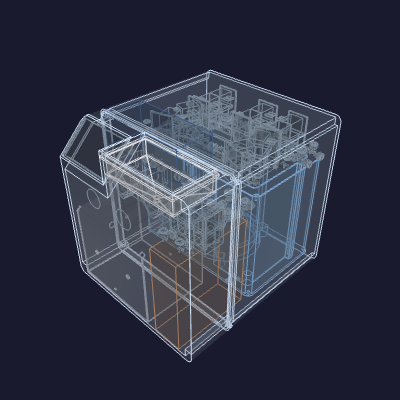
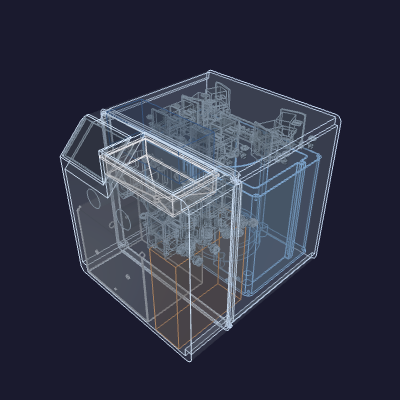
enclosure-assembly: pack all four valve trays zero-overlap, no growth
Read each tray's dumbbell profile (tall valve clusters, low narrow bridge) and
use the whole box instead of two flat rows on the cold-core top:
- source-select + bag-circuit tile the cold-core top in two depth rows
- bib-gate + nozzle-gate drop onto the condenser-top band, front-to-back, under
  the SeaFlo and the hollow hopper funnel (its thin cone leaves the volume free)
- pumps on the compressor top, SeaFlo flat on their tops

Content-to-content overlap is now zero (was bag-circuit/nozzle-gate 12837 +
bib-gate/cold-core 750), and the outer envelope is unchanged. The SeaFlo still
straddles the print seam (pre-existing: the only seaflo-sized open volume is the
pump tops, which the seam crosses); the funnel-collar-in-opening overlap is by
design.

Also drops _flip*.py search scratch swept into the tree by an earlier commit.

Changed region(s): [[0.3, 0.21, 0.81, 0.66], [0.24, 0.27, 0.3, 0.3]]

diff --git a/hardware/printed-parts/enclosure/enclosure-assembly/_contents.py b/hardware/printed-parts/enclosure/enclosure-assembly/_contents.py
@@ -133,10 +133,9 @@ def build():
     placed["condenser+fan"] = _at(cond, cold_w - CONDENSER_AIRFLOW - SIDE_RIB_INSET, 0.0, SEAM_CLEAR_LIFT)
     cond_top_z = SEAM_CLEAR_LIFT + CONDENSER_FACE_A
 
-    # --- Zone C: the two flavor pumps sit low on the compressor top, the SeaFlo
-    # laid flat across them above. The whole right column above the condenser is
-    # left open as the hopper-funnel reserve — funnel on the right, toward the
-    # front.
+    # --- The two flavor pumps sit on the compressor top; the SeaFlo lies flat
+    # across their tops (the dead air above the pumps), its back edge against the
+    # hopper funnel.
     pa1 = _rot(_load(PUMP_ASSEMBLY), (1, 0, 0), 90.0)  # depth axis along Y, elbows up
     pa2 = _rot(_load(PUMP_ASSEMBLY), (1, 0, 0), 90.0)
     placed["pump-assembly-1"] = _at(pa1, 20.0, 12.0, comp_top_z)
@@ -144,19 +143,18 @@ def build():
     pump_top_z = comp_top_z + pa1.BoundingBox().zlen
     sf_w, sf_d, sf_h = SEAFLO_DIMS                      # [75 x 60 x 175](SEAFLO_DIMS)
     seaflo = _box(sf_h, sf_w, sf_d)                    # 175 x 75 x 60, long axis along X
-    placed["seaflo-pump"] = _at(seaflo, 14.0, 80.0, pump_top_z)
+    placed["seaflo-pump"] = _at(seaflo, 14.0, 84.0, pump_top_z)
 
-    # --- Zone B: three valve-manifold trays back-top above the lifted cold core
-    # (off the ±X corners, clear of the back half's top braces). The bib-gate
-    # tray sits low in the right column, beneath the funnel reserve.
-    bib = _rot(_load(TRAY_STEPS["bib-gate"]), (0, 0, 1), 90.0)  # 75 x 139
-    # Slid hard against the +X wall — right edge to the seam lip's inner face (one
-    # wall in from the inner wall, which the cold core's width sets). Clears the
-    # funnel tip's column to the left.
-    bib_x = (cold_w - WALL) - bib.BoundingBox().xlen
-    placed["bib-gate"]      = _at(bib, bib_x, 10.0, cond_top_z)
-    placed["source-select"] = _at(_load(TRAY_STEPS["source-select"]), 10.0, FRONT_DEPTH, back_top_z)
-    placed["bag-circuit"]   = _at(_load(TRAY_STEPS["bag-circuit"]),   10.0, FRONT_DEPTH + 96.0, back_top_z)
-    placed["nozzle-gate"]   = _at(_load(TRAY_STEPS["nozzle-gate"]),  172.0, FRONT_DEPTH + 96.0, back_top_z)
+    # --- Valve-manifold trays, packed across the whole top with no spare layer.
+    # The two long dumbbell trays tile the cold-core top in two depth rows
+    # (bag-circuit front, source-select behind). The two short trays take the
+    # front-right the fixed parts leave open: both sit low on the condenser-top
+    # band (z = cond_top_z), front-to-back — bib-gate at the front, nozzle-gate
+    # behind it — under the SeaFlo and the hollow hopper funnel, whose thin cone
+    # leaves the volume around it free.
+    placed["bag-circuit"]   = _at(_load(TRAY_STEPS["bag-circuit"]),     0.0, 161.0, back_top_z)
+    placed["source-select"] = _at(_load(TRAY_STEPS["source-select"]),  0.0, 238.0, back_top_z)
+    placed["bib-gate"]      = _at(_load(TRAY_STEPS["bib-gate"]),      172.0,   0.0, cond_top_z)
+    placed["nozzle-gate"]   = _at(_load(TRAY_STEPS["nozzle-gate"]),   180.0,  78.0, cond_top_z)
 
     return {n: (s, COLORS[n]) for n, s in placed.items()}
